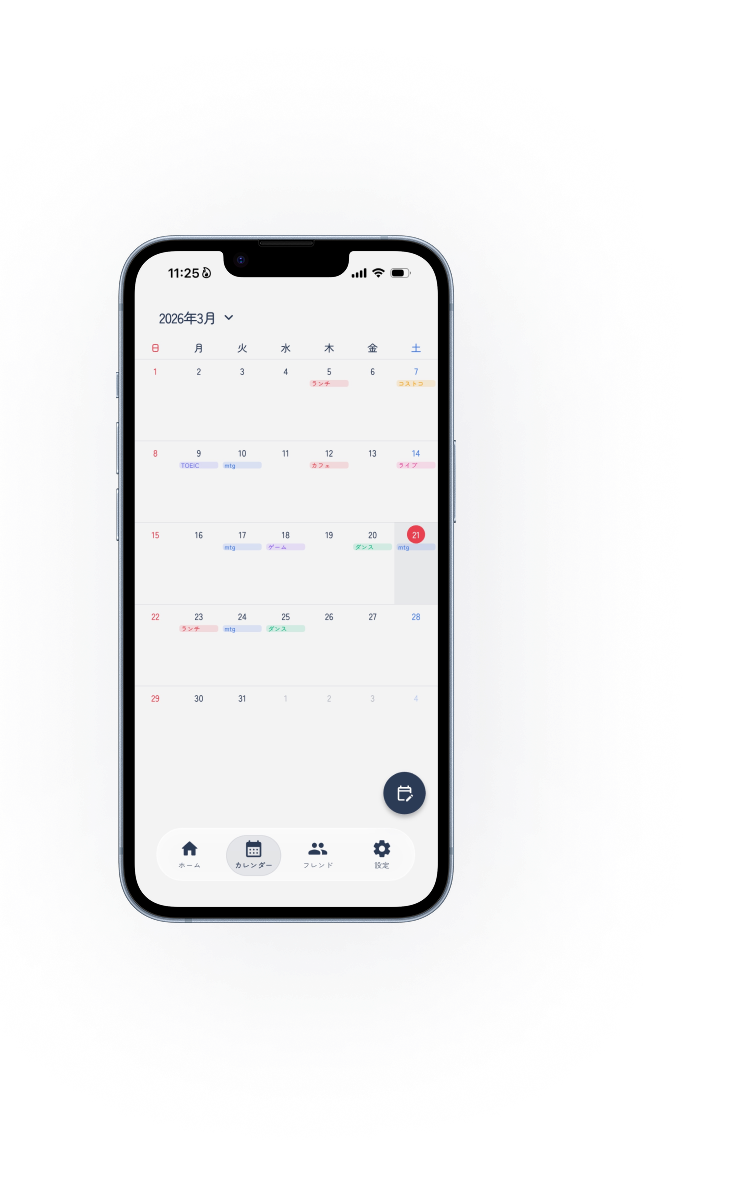
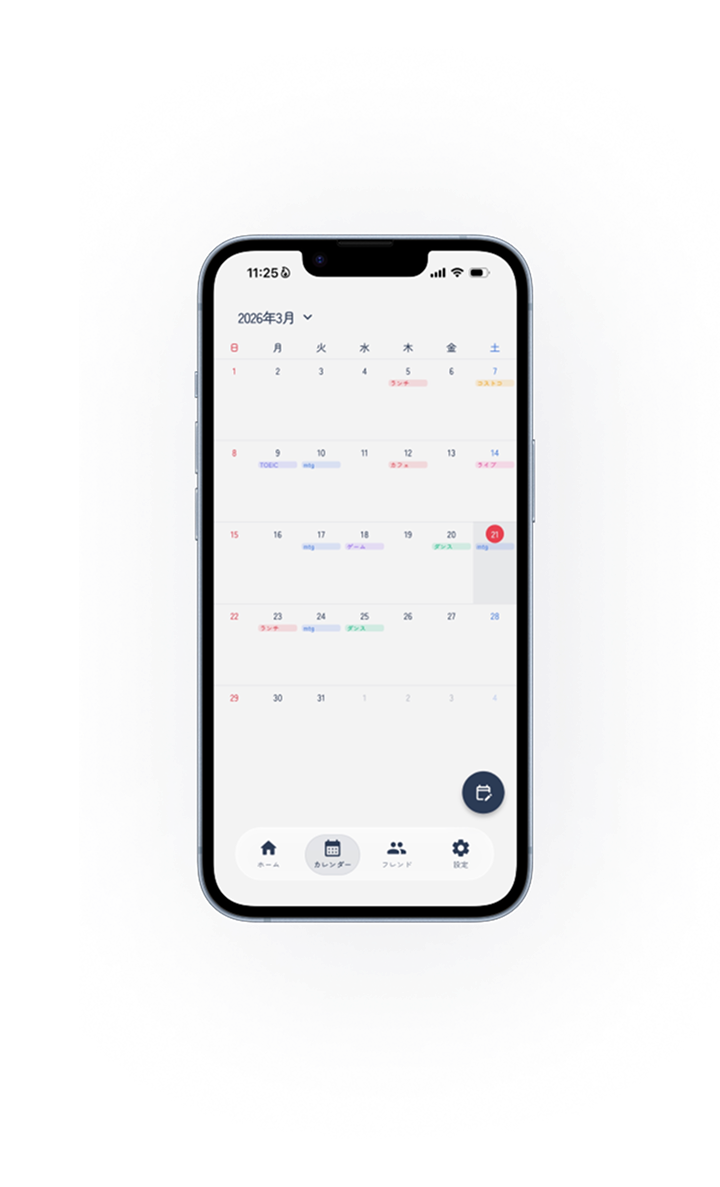
Update feature 3 image

diff --git a/src/App.tsx b/src/App.tsx
@@ -275,7 +275,7 @@ function App() {
           <div className="grid lg:grid-cols-12 gap-12 lg:gap-16 items-center">
             {/* Image */}
             <div className="lg:col-span-7 order-2 lg:order-1">
-              <div className="relative max-w-sm mx-auto lg:max-w-none">
+              <div className="relative">
                 <div className="absolute -inset-4 bg-gradient-to-br from-accent/30 to-earth/30 rounded-[2.5rem] blur-2xl" />
                 <img
                   src={imgFeature3}